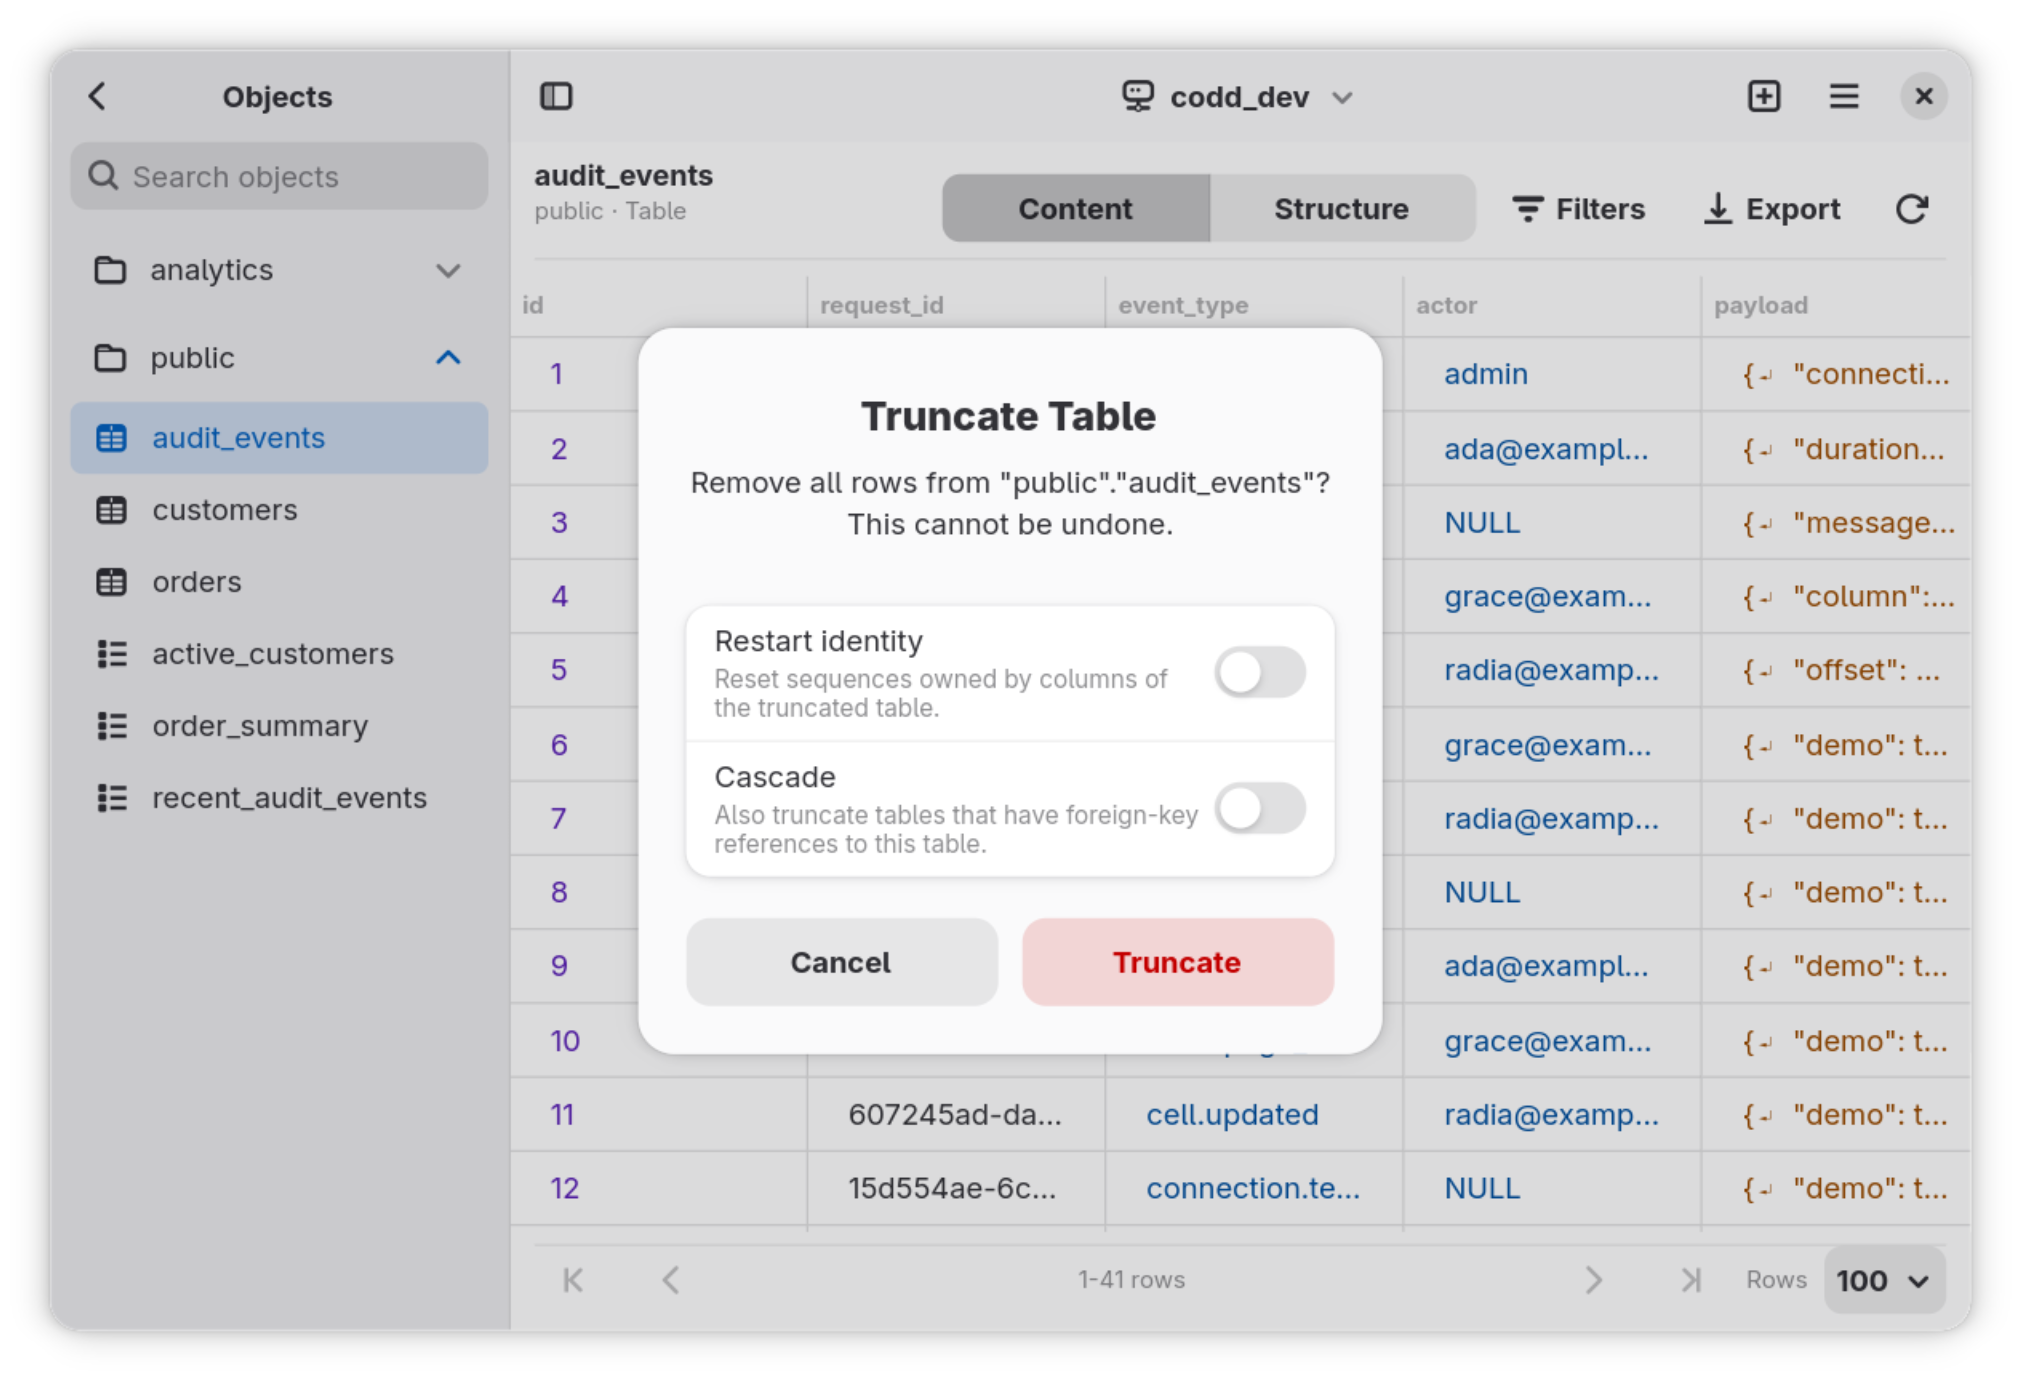
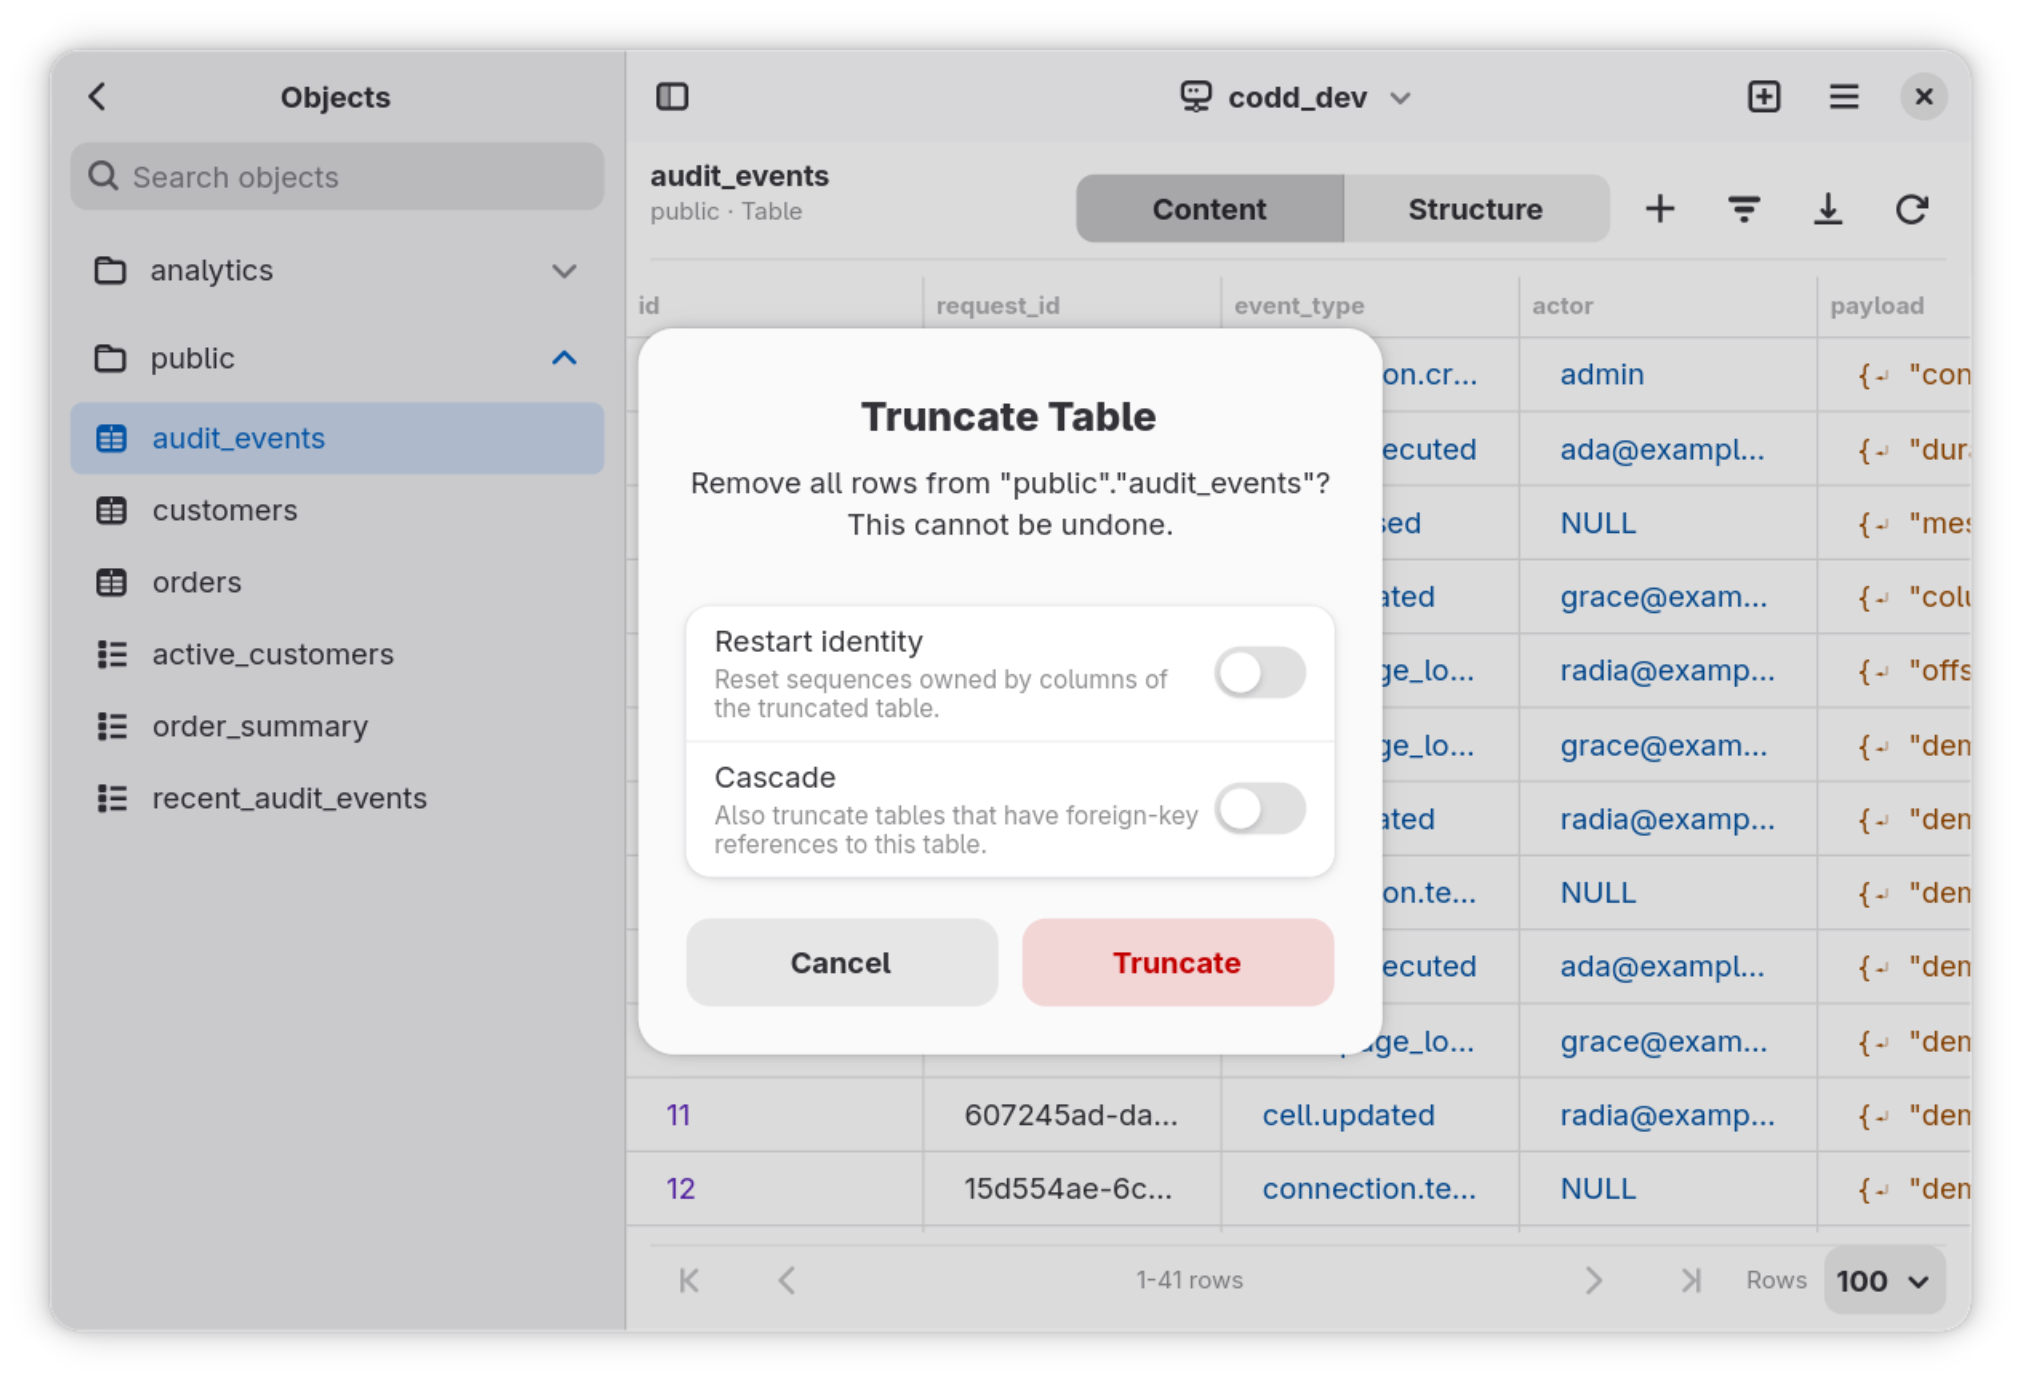
Release 0.9.0

diff --git a/README.md b/README.md
@@ -17,6 +17,7 @@ The app started as a personal-use SQL editor: lightweight, native, focused, and 
 - Write SQL with syntax highlighting and line numbers
 - Reuse automatically saved query history per database
 - Browse table rows with pagination, filters, custom SQL filters, and editable cell values
+- Insert new table rows from the table browser
 - Export results as CSV
 - Generate common table scripts from the object sidebar
 - Rename, truncate, and delete tables or views from the object sidebar
